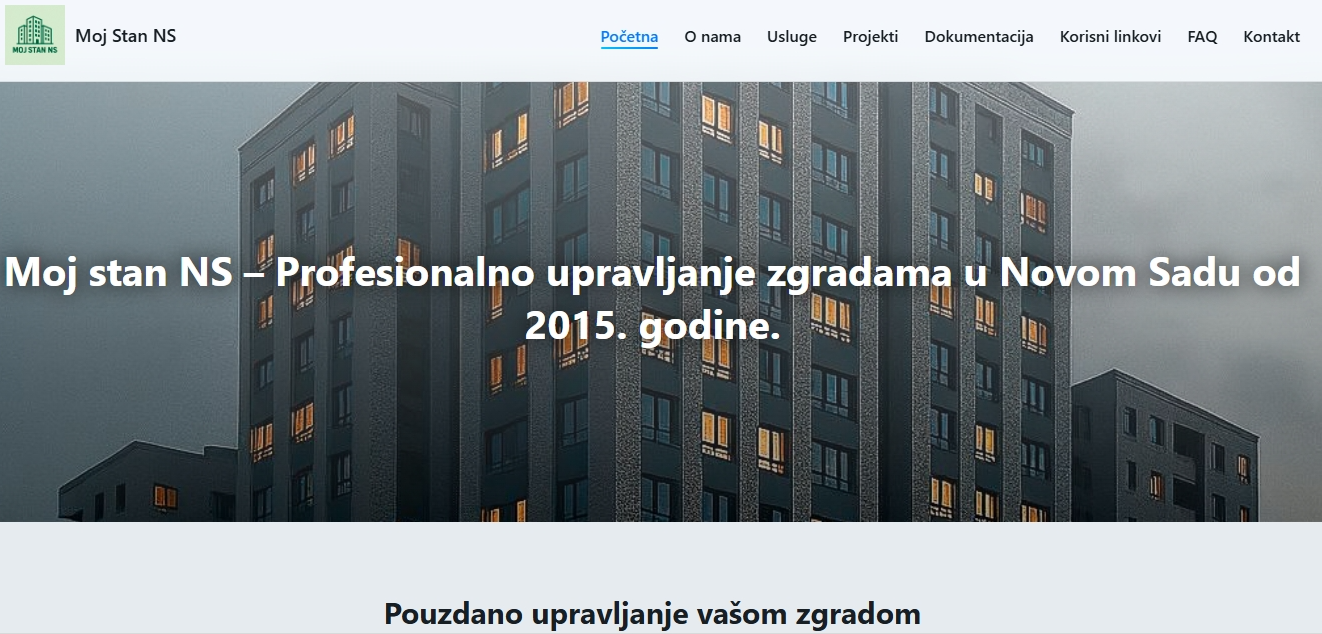
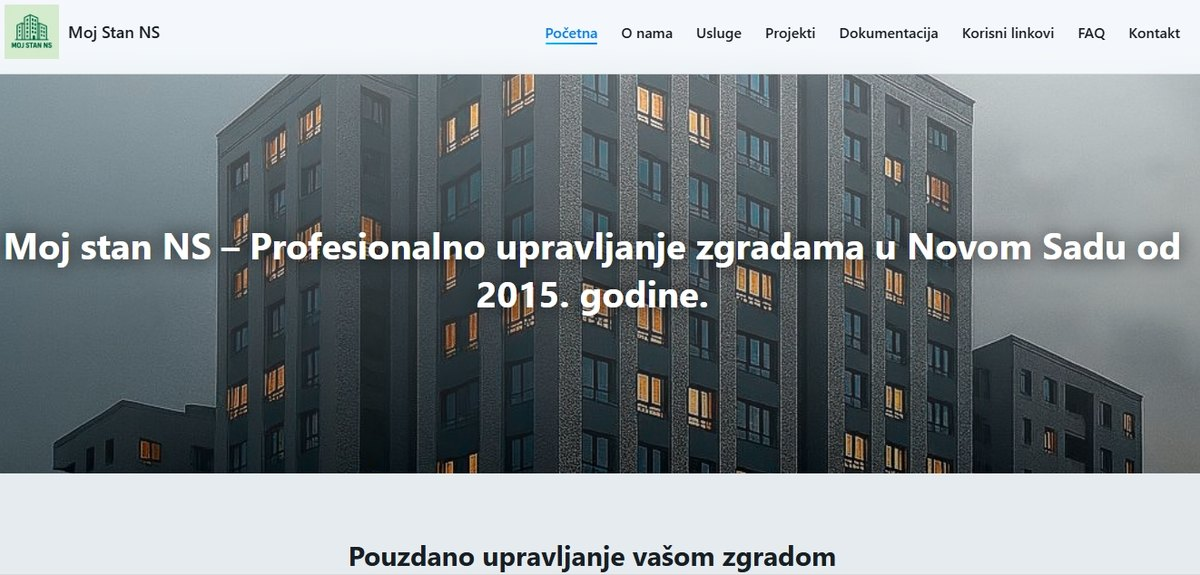
Add files via upload

diff --git a/o-nama.html b/o-nama.html
@@ -15,14 +15,14 @@
 <meta content="width=device-width, initial-scale=1.0" name="viewport"/>
 <title>O nama – MP Web Studio | Izrada Web Sajtova Novi Sad</title>
 <meta content="MP Web Studio – studio specijalizovan za izradu modernih, brzih i profesionalnih web sajtova. Fokus na lokalne biznise u Novom Sadu. SEO, dizajn, razvoj." name="description"/><link href="https://mpwebstudio.rs/o-nama.html" rel="canonical"/>
-<meta content="https://mpwebstudio.rs/img/og-image.png" property="og:image"/>
+<meta content="https://mpwebstudio.rs/img/og-image.jpg" property="og:image"/>
 <link href="https://fonts.googleapis.com" rel="preconnect"/><link crossorigin="" href="https://fonts.gstatic.com" rel="preconnect"/><link href="img/favicon.ico" rel="icon" sizes="any"/><link href="img/favicon-32.png" rel="icon" sizes="32x32" type="image/png"/><link href="img/favicon-180.png" rel="apple-touch-icon" sizes="180x180"/><link href="https://fonts.googleapis.com/css2?family=Inter:wght@300;400;500;600;700;800&amp;display=swap" rel="stylesheet"/><link href="style.css" rel="stylesheet"/>
 <script type="application/ld+json">
 {
   "@context": "https://schema.org",
   "@type": "LocalBusiness",
   "name": "MP Web Studio",
-  "image": "https://mpwebstudio.rs/img/og-image.png",
+  "image": "https://mpwebstudio.rs/img/og-image.jpg",
   "url": "https://mpwebstudio.rs/",
   "telephone": "+38163582132",
   "email": "info.mpwebstudio@gmail.com",
@@ -36,7 +36,7 @@
   "description": "MP Web Studio – izrada profesionalnih web sajtova za lokalne biznise u Novom Sadu. Moderan dizajn, SEO optimizacija i brza isporuka uz fokus na rezultate."
 }
 </script>
-<meta content="O nama – MP Web Studio | Izrada Web Sajtova Novi Sad" property="og:title"/><meta content="MP Web Studio – studio specijalizovan za izradu modernih, brzih i profesionalnih web sajtova. Fokus na lokalne biznise u Novom Sadu. SEO, dizajn, razvoj." property="og:description"/><meta content="website" property="og:type"/><meta content="https://mpwebstudio.rs/o-nama.html" property="og:url"/><meta content="summary_large_image" name="twitter:card"/><meta content="O nama – MP Web Studio | Izrada Web Sajtova Novi Sad" name="twitter:title"/><meta content="MP Web Studio – studio specijalizovan za izradu modernih, brzih i profesionalnih web sajtova. Fokus na lokalne biznise u Novom Sadu. SEO, dizajn, razvoj." name="twitter:description"/><meta content="https://mpwebstudio.rs/img/og-image.png" name="twitter:image"/></head>
+<meta content="O nama – MP Web Studio | Izrada Web Sajtova Novi Sad" property="og:title"/><meta content="MP Web Studio – studio specijalizovan za izradu modernih, brzih i profesionalnih web sajtova. Fokus na lokalne biznise u Novom Sadu. SEO, dizajn, razvoj." property="og:description"/><meta content="website" property="og:type"/><meta content="https://mpwebstudio.rs/o-nama.html" property="og:url"/><meta content="summary_large_image" name="twitter:card"/><meta content="O nama – MP Web Studio | Izrada Web Sajtova Novi Sad" name="twitter:title"/><meta content="MP Web Studio – studio specijalizovan za izradu modernih, brzih i profesionalnih web sajtova. Fokus na lokalne biznise u Novom Sadu. SEO, dizajn, razvoj." name="twitter:description"/><meta content="https://mpwebstudio.rs/img/og-image.jpg" name="twitter:image"/></head>
 <body>
 <!-- ===================== -->
 <!-- HEADER -->
@@ -117,11 +117,11 @@
 <p><span class="footer-icon-link"><span aria-hidden="true" class="footer-icon">◎</span><span>Instagram:</span> <a href="https://www.instagram.com/mpwebstudio.rs/" rel="noopener noreferrer" target="_blank">@mpwebstudio.rs</a></span></p>
 </div>
 <div class="footer-col">
-<a class="footer-cta" href="kontakt.html">Pošaljite poruku</a>
+<a class="footer-cta" href="kontakt.html">Zakažite konsultaciju</a>
 </div>
 </div>
 <div class="footer-bottom">
-    © 2026 MP Web Studio — Sva prava zadržana
+    © 2026 MP Web Studio – Sva prava zadržana
   </div>
 </footer>
 <!-- ===================== -->

diff --git a/portfolio.html b/portfolio.html
@@ -15,14 +15,14 @@
 <meta content="width=device-width, initial-scale=1.0" name="viewport"/>
 <title>Portfolio – Izrada Web Sajtova Novi Sad | MP Web Studio</title>
 <meta content="Portfolio MP Web Studio – pogledajte neke od naših radova. Izrada modernih i profesionalnih web sajtova za lokalne biznise u Novom Sadu. Brzo, kvalitetno i SEO optimizovano." name="description"/><link href="https://mpwebstudio.rs/portfolio.html" rel="canonical"/>
-<meta content="https://mpwebstudio.rs/img/og-image.png" property="og:image"/>
+<meta content="https://mpwebstudio.rs/img/og-image.jpg" property="og:image"/>
 <link href="https://fonts.googleapis.com" rel="preconnect"/><link crossorigin="" href="https://fonts.gstatic.com" rel="preconnect"/><link href="img/favicon.ico" rel="icon" sizes="any"/><link href="img/favicon-32.png" rel="icon" sizes="32x32" type="image/png"/><link href="img/favicon-180.png" rel="apple-touch-icon" sizes="180x180"/><link href="https://fonts.googleapis.com/css2?family=Inter:wght@300;400;500;600;700;800&amp;display=swap" rel="stylesheet"/><link href="style.css" rel="stylesheet"/>
 <script type="application/ld+json">
 {
   "@context": "https://schema.org",
   "@type": "LocalBusiness",
   "name": "MP Web Studio",
-  "image": "https://mpwebstudio.rs/img/og-image.png",
+  "image": "https://mpwebstudio.rs/img/og-image.jpg",
   "url": "https://mpwebstudio.rs/",
   "telephone": "+38163582132",
   "email": "info.mpwebstudio@gmail.com",
@@ -36,7 +36,7 @@
   "description": "MP Web Studio – izrada profesionalnih web sajtova za lokalne biznise u Novom Sadu. Moderan dizajn, SEO optimizacija i brza isporuka uz fokus na rezultate."
 }
 </script>
-<meta content="Portfolio – Izrada Web Sajtova Novi Sad | MP Web Studio" property="og:title"/><meta content="Portfolio MP Web Studio – pogledajte neke od naših radova. Izrada modernih i profesionalnih web sajtova za lokalne biznise u Novom Sadu. Brzo, kvalitetno i SEO optimizovano." property="og:description"/><meta content="website" property="og:type"/><meta content="https://mpwebstudio.rs/portfolio.html" property="og:url"/><meta content="summary_large_image" name="twitter:card"/><meta content="Portfolio – Izrada Web Sajtova Novi Sad | MP Web Studio" name="twitter:title"/><meta content="Portfolio MP Web Studio – pogledajte neke od naših radova. Izrada modernih i profesionalnih web sajtova za lokalne biznise u Novom Sadu. Brzo, kvalitetno i SEO optimizovano." name="twitter:description"/><meta content="https://mpwebstudio.rs/img/og-image.png" name="twitter:image"/></head>
+<meta content="Portfolio – Izrada Web Sajtova Novi Sad | MP Web Studio" property="og:title"/><meta content="Portfolio MP Web Studio – pogledajte neke od naših radova. Izrada modernih i profesionalnih web sajtova za lokalne biznise u Novom Sadu. Brzo, kvalitetno i SEO optimizovano." property="og:description"/><meta content="website" property="og:type"/><meta content="https://mpwebstudio.rs/portfolio.html" property="og:url"/><meta content="summary_large_image" name="twitter:card"/><meta content="Portfolio – Izrada Web Sajtova Novi Sad | MP Web Studio" name="twitter:title"/><meta content="Portfolio MP Web Studio – pogledajte neke od naših radova. Izrada modernih i profesionalnih web sajtova za lokalne biznise u Novom Sadu. Brzo, kvalitetno i SEO optimizovano." name="twitter:description"/><meta content="https://mpwebstudio.rs/img/og-image.jpg" name="twitter:image"/></head>
 <body>
 <!-- HEADER -->
 <header class="header">
@@ -183,7 +183,7 @@
 <p><span class="footer-icon-link"><span aria-hidden="true" class="footer-icon">◎</span><span>Instagram:</span> <a href="https://www.instagram.com/mpwebstudio.rs/" rel="noopener noreferrer" target="_blank">@mpwebstudio.rs</a></span></p>
 </div>
 <div class="footer-col">
-<a class="footer-cta" href="kontakt.html">Pošaljite poruku</a>
+<a class="footer-cta" href="kontakt.html">Zakažite konsultaciju</a>
 </div>
 </div>
 <div class="footer-bottom">

diff --git a/kontakt.html b/kontakt.html
@@ -15,14 +15,14 @@
 <meta content="width=device-width, initial-scale=1.0" name="viewport"/>
 <title>Kontakt – MP Web Studio | Izrada Web Sajtova Novi Sad</title>
 <meta content="Kontaktirajte MP Web Studio iz Novog Sada. Izrada profesionalnih i modernih web sajtova za lokalne biznise. Odgovaramo u roku od 15 minuta." name="description"/><link href="https://mpwebstudio.rs/kontakt.html" rel="canonical"/>
-<meta content="https://mpwebstudio.rs/img/og-image.png" property="og:image"/>
+<meta content="https://mpwebstudio.rs/img/og-image.jpg" property="og:image"/>
 <link href="https://fonts.googleapis.com" rel="preconnect"/><link crossorigin="" href="https://fonts.gstatic.com" rel="preconnect"/><link href="img/favicon.ico" rel="icon" sizes="any"/><link href="img/favicon-32.png" rel="icon" sizes="32x32" type="image/png"/><link href="img/favicon-180.png" rel="apple-touch-icon" sizes="180x180"/><link href="https://fonts.googleapis.com/css2?family=Inter:wght@300;400;500;600;700;800&amp;display=swap" rel="stylesheet"/><link href="style.css" rel="stylesheet"/>
 <script type="application/ld+json">
 {
   "@context": "https://schema.org",
   "@type": "LocalBusiness",
   "name": "MP Web Studio",
-  "image": "https://mpwebstudio.rs/img/og-image.png",
+  "image": "https://mpwebstudio.rs/img/og-image.jpg",
   "url": "https://mpwebstudio.rs/",
   "telephone": "+38163582132",
   "email": "info.mpwebstudio@gmail.com",
@@ -36,7 +36,7 @@
   "description": "MP Web Studio – izrada profesionalnih web sajtova za lokalne biznise u Novom Sadu. Moderan dizajn, SEO optimizacija i brza isporuka uz fokus na rezultate."
 }
 </script>
-<meta content="Kontakt – MP Web Studio | Izrada Web Sajtova Novi Sad" property="og:title"/><meta content="Kontaktirajte MP Web Studio iz Novog Sada. Izrada profesionalnih i modernih web sajtova za lokalne biznise. Odgovaramo u roku od 15 minuta." property="og:description"/><meta content="website" property="og:type"/><meta content="https://mpwebstudio.rs/kontakt.html" property="og:url"/><meta content="summary_large_image" name="twitter:card"/><meta content="Kontakt – MP Web Studio | Izrada Web Sajtova Novi Sad" name="twitter:title"/><meta content="Kontaktirajte MP Web Studio iz Novog Sada. Izrada profesionalnih i modernih web sajtova za lokalne biznise. Odgovaramo u roku od 15 minuta." name="twitter:description"/><meta content="https://mpwebstudio.rs/img/og-image.png" name="twitter:image"/></head>
+<meta content="Kontakt – MP Web Studio | Izrada Web Sajtova Novi Sad" property="og:title"/><meta content="Kontaktirajte MP Web Studio iz Novog Sada. Izrada profesionalnih i modernih web sajtova za lokalne biznise. Odgovaramo u roku od 15 minuta." property="og:description"/><meta content="website" property="og:type"/><meta content="https://mpwebstudio.rs/kontakt.html" property="og:url"/><meta content="summary_large_image" name="twitter:card"/><meta content="Kontakt – MP Web Studio | Izrada Web Sajtova Novi Sad" name="twitter:title"/><meta content="Kontaktirajte MP Web Studio iz Novog Sada. Izrada profesionalnih i modernih web sajtova za lokalne biznise. Odgovaramo u roku od 15 minuta." name="twitter:description"/><meta content="https://mpwebstudio.rs/img/og-image.jpg" name="twitter:image"/></head>
 <body>
 <!-- HEADER -->
 <header class="header">
@@ -125,7 +125,7 @@
 <p><span class="footer-icon-link"><span aria-hidden="true" class="footer-icon">◎</span><span>Instagram:</span> <a href="https://www.instagram.com/mpwebstudio.rs/" rel="noopener noreferrer" target="_blank">@mpwebstudio.rs</a></span></p>
 </div>
 <div class="footer-col">
-<a class="footer-cta" href="kontakt.html">Pošaljite poruku</a>
+<a class="footer-cta" href="kontakt.html">Zakažite konsultaciju</a>
 </div>
 </div>
 <div class="footer-bottom">

diff --git a/index.html b/index.html
@@ -23,7 +23,7 @@
 <meta content="website" property="og:type"/>
 <meta content="Izrada Web Sajtova Novi Sad | MP Web Studio" property="og:title"/>
 <meta content="Profesionalna izrada web sajtova Novi Sad. Brzi, moderni i SEO optimizovani sajtovi za lokalne biznise. Premium dizajn, jasna ponuda i rezultat na prvom mestu. MP Web Studio." property="og:description"/>
-<meta content="https://mpwebstudio.rs/img/og-image.png" property="og:image"/>
+<meta content="https://mpwebstudio.rs/img/og-image.jpg" property="og:image"/>
 <meta content="https://mpwebstudio.rs/" property="og:url"/>
 <!-- Favicon -->
 <!-- Styles -->
@@ -44,7 +44,7 @@
   "@context": "https://schema.org",
   "@type": "LocalBusiness",
   "name": "MP Web Studio",
-  "image": "https://mpwebstudio.rs/img/og-image.png",
+  "image": "https://mpwebstudio.rs/img/og-image.jpg",
   "url": "https://mpwebstudio.rs/",
   "telephone": "+38163582132",
   "email": "info.mpwebstudio@gmail.com",
@@ -58,7 +58,7 @@
   "description": "MP Web Studio – izrada profesionalnih web sajtova za lokalne biznise u Novom Sadu. Moderan dizajn, SEO optimizacija i brza isporuka uz fokus na rezultate."
 }
 </script>
-<meta content="summary_large_image" name="twitter:card"/><meta content="Izrada Web Sajtova Novi Sad | MP Web Studio" name="twitter:title"/><meta content="Profesionalna izrada web sajtova Novi Sad. Brzi, moderni i SEO optimizovani sajtovi za lokalne biznise. Premium dizajn, jasna ponuda i rezultat na prvom mestu. MP Web Studio." name="twitter:description"/><meta content="https://mpwebstudio.rs/img/og-image.png" name="twitter:image"/></head>
+<meta content="summary_large_image" name="twitter:card"/><meta content="Izrada Web Sajtova Novi Sad | MP Web Studio" name="twitter:title"/><meta content="Profesionalna izrada web sajtova Novi Sad. Brzi, moderni i SEO optimizovani sajtovi za lokalne biznise. Premium dizajn, jasna ponuda i rezultat na prvom mestu. MP Web Studio." name="twitter:description"/><meta content="https://mpwebstudio.rs/img/og-image.jpg" name="twitter:image"/></head>
 <body>
 <!-- ===================== -->
 <!-- ⭐ HEADER ⭐ -->
@@ -98,8 +98,8 @@
 <div class="hero-wrapper glow-frame">
 <!-- ⭐ NASLOV IZNAD VIDEA -->
 <h1 class="hero-title">
-<strong>Izrada Web Sajtova Novi Sad – Profesionalno &amp; Brzo</strong>
-      Premium web sajtovi za biznise koji žele više<br/>
+<strong>Izrada web sajtova Novi Sad</strong>
+      Premium sajtovi za biznise koji žele više<br/>
 </h1>
 <!-- ⭐ HERO VIDEO – FULL WIDTH -->
 <div class="hero-video-box">
@@ -160,7 +160,7 @@
 <div class="container footer-wrapper">
 <div class="footer-col">
 <h3>MP Web Studio</h3>
-<p>Izrada web sajtova • SEO • Branding</p>
+<p>Izrada profesionalnih web sajtova • Novi Sad</p>
 </div>
 <div class="footer-col">
 <h4>Kontakt</h4>
@@ -174,8 +174,8 @@
 </div>
 </div>
 <div class="footer-bottom">
-      © 2026 MP Web Studio – Sva prava zadržana.
-    </div>
+    © 2026 MP Web Studio – Sva prava zadržana
+  </div>
 </footer>
 <!-- JS -->
 <script>

diff --git a/izrada-web-sajtova-novi-sad.html b/izrada-web-sajtova-novi-sad.html
@@ -300,7 +300,7 @@
       .back-home-top { justify-content: center; }
     }
   </style>
-<meta content="Izrada web sajtova Novi Sad | MP Web Studio – Profesionalni web dizajn" property="og:title"/><meta content="MP Web Studio – izrada web sajtova Novi Sad. Moderni, brzi i profesionalni sajtovi za lokalne biznise, preduzetnike i ugostitelje. Jasne cene, SEO optimizacija i realni rokovi." property="og:description"/><meta content="website" property="og:type"/><meta content="https://mpwebstudio.rs/izrada-web-sajtova-novi-sad.html" property="og:url"/><meta content="https://mpwebstudio.rs/img/og-image.png" property="og:image"/><meta content="summary_large_image" name="twitter:card"/><meta content="Izrada web sajtova Novi Sad | MP Web Studio – Profesionalni web dizajn" name="twitter:title"/><meta content="MP Web Studio – izrada web sajtova Novi Sad. Moderni, brzi i profesionalni sajtovi za lokalne biznise, preduzetnike i ugostitelje. Jasne cene, SEO optimizacija i realni rokovi." name="twitter:description"/><meta content="https://mpwebstudio.rs/img/og-image.png" name="twitter:image"/></head>
+<meta content="Izrada web sajtova Novi Sad | MP Web Studio – Profesionalni web dizajn" property="og:title"/><meta content="MP Web Studio – izrada web sajtova Novi Sad. Moderni, brzi i profesionalni sajtovi za lokalne biznise, preduzetnike i ugostitelje. Jasne cene, SEO optimizacija i realni rokovi." property="og:description"/><meta content="website" property="og:type"/><meta content="https://mpwebstudio.rs/izrada-web-sajtova-novi-sad.html" property="og:url"/><meta content="https://mpwebstudio.rs/img/og-image.jpg" property="og:image"/><meta content="summary_large_image" name="twitter:card"/><meta content="Izrada web sajtova Novi Sad | MP Web Studio – Profesionalni web dizajn" name="twitter:title"/><meta content="MP Web Studio – izrada web sajtova Novi Sad. Moderni, brzi i profesionalni sajtovi za lokalne biznise, preduzetnike i ugostitelje. Jasne cene, SEO optimizacija i realni rokovi." name="twitter:description"/><meta content="https://mpwebstudio.rs/img/og-image.jpg" name="twitter:image"/></head>
 <body>
 <div class="bg-glow"></div>
 <div class="page">
@@ -337,7 +337,7 @@
 <section>
 <div class="section-card two-cols">
 <div>
-<h2>Za koga je izrada sajta u Novom Sadu koje radi MP Web Studio?</h2>
+<h2>Za koga je izrada sajta u Novom Sadu pravi izbor?</h2>
 <p>
             Najčešće radimo sa vlasnicima malih i srednjih biznisa koji žele normalnu, ljudsku saradnju –
             bez komplikacija, agencijskih termina i nepotrebnih troškova.
@@ -533,7 +533,7 @@
 <!-- LOKALNI FOKUS -->
 <section>
 <div class="section-card">
-<h2>Lokalni fokus – izrada sajtova za Novi Sad i okolina</h2>
+<h2>Lokalni fokus – izrada sajtova za Novi Sad i okolinu</h2>
 <p>
           Iako možemo da radimo sa klijentima iz cele Srbije, <strong>posebno volimo da radimo sa
           novosadskim biznisima</strong>. Lakše je razumeti lokalne prilike, navike ljudi i način

diff --git a/usluge.html b/usluge.html
@@ -21,7 +21,7 @@
   "@context": "https://schema.org",
   "@type": "LocalBusiness",
   "name": "MP Web Studio",
-  "image": "https://mpwebstudio.rs/img/og-image.png",
+  "image": "https://mpwebstudio.rs/img/og-image.jpg",
   "url": "https://mpwebstudio.rs/",
   "telephone": "+38163582132",
   "email": "info.mpwebstudio@gmail.com",
@@ -35,7 +35,7 @@
   "description": "MP Web Studio – izrada profesionalnih web sajtova za lokalne biznise u Novom Sadu. Moderan dizajn, SEO optimizacija i brza isporuka uz fokus na rezultate."
 }
 </script>
-<meta content="Usluge – Izrada Web Sajtova Novi Sad | MP Web Studio" property="og:title"/><meta content="Profesionalna izrada web sajtova Novi Sad. Premium web dizajn, SEO optimizacija, redizajn i razvoj sajtova za lokalne biznise. MP Web Studio – brz, moderan i pouzdan." property="og:description"/><meta content="website" property="og:type"/><meta content="https://mpwebstudio.rs/usluge.html" property="og:url"/><meta content="https://mpwebstudio.rs/img/og-image.png" property="og:image"/><meta content="summary_large_image" name="twitter:card"/><meta content="Usluge – Izrada Web Sajtova Novi Sad | MP Web Studio" name="twitter:title"/><meta content="Profesionalna izrada web sajtova Novi Sad. Premium web dizajn, SEO optimizacija, redizajn i razvoj sajtova za lokalne biznise. MP Web Studio – brz, moderan i pouzdan." name="twitter:description"/><meta content="https://mpwebstudio.rs/img/og-image.png" name="twitter:image"/></head>
+<meta content="Usluge – Izrada Web Sajtova Novi Sad | MP Web Studio" property="og:title"/><meta content="Profesionalna izrada web sajtova Novi Sad. Premium web dizajn, SEO optimizacija, redizajn i razvoj sajtova za lokalne biznise. MP Web Studio – brz, moderan i pouzdan." property="og:description"/><meta content="website" property="og:type"/><meta content="https://mpwebstudio.rs/usluge.html" property="og:url"/><meta content="https://mpwebstudio.rs/img/og-image.jpg" property="og:image"/><meta content="summary_large_image" name="twitter:card"/><meta content="Usluge – Izrada Web Sajtova Novi Sad | MP Web Studio" name="twitter:title"/><meta content="Profesionalna izrada web sajtova Novi Sad. Premium web dizajn, SEO optimizacija, redizajn i razvoj sajtova za lokalne biznise. MP Web Studio – brz, moderan i pouzdan." name="twitter:description"/><meta content="https://mpwebstudio.rs/img/og-image.jpg" name="twitter:image"/></head>
 <body>
 <!-- HEADER -->
 <header class="header">
@@ -192,7 +192,7 @@
 <p><span class="footer-icon-link"><span aria-hidden="true" class="footer-icon">◎</span><span>Instagram:</span> <a href="https://www.instagram.com/mpwebstudio.rs/" rel="noopener noreferrer" target="_blank">@mpwebstudio.rs</a></span></p>
 </div>
 <div class="footer-col">
-<a class="footer-cta" href="kontakt.html">Pošaljite poruku</a>
+<a class="footer-cta" href="kontakt.html">Zakažite konsultaciju</a>
 </div>
 </div>
 <div class="footer-bottom">

diff --git a/faq.html b/faq.html
@@ -74,7 +74,7 @@
   "@context": "https://schema.org",
   "@type": "LocalBusiness",
   "name": "MP Web Studio",
-  "image": "https://mpwebstudio.rs/img/og-image.png",
+  "image": "https://mpwebstudio.rs/img/og-image.jpg",
   "url": "https://mpwebstudio.rs/",
   "telephone": "+38163582132",
   "email": "info.mpwebstudio@gmail.com",
@@ -88,7 +88,7 @@
   "description": "MP Web Studio – izrada profesionalnih web sajtova za lokalne biznise u Novom Sadu. Moderan dizajn, SEO optimizacija i brza isporuka uz fokus na rezultate."
 }
 </script>
-<meta content="FAQ | Česta pitanja | MP Web Studio – Izrada Web Sajtova Novi Sad" property="og:title"/><meta content="Česta pitanja o izradi web sajtova, rokovima, SEO optimizaciji, održavanju i saradnji sa MP Web Studio iz Novog Sada." property="og:description"/><meta content="website" property="og:type"/><meta content="https://mpwebstudio.rs/faq.html" property="og:url"/><meta content="https://mpwebstudio.rs/img/og-image.png" property="og:image"/><meta content="summary_large_image" name="twitter:card"/><meta content="FAQ | Česta pitanja | MP Web Studio – Izrada Web Sajtova Novi Sad" name="twitter:title"/><meta content="Česta pitanja o izradi web sajtova, rokovima, SEO optimizaciji, održavanju i saradnji sa MP Web Studio iz Novog Sada." name="twitter:description"/><meta content="https://mpwebstudio.rs/img/og-image.png" name="twitter:image"/></head>
+<meta content="FAQ | Česta pitanja | MP Web Studio – Izrada Web Sajtova Novi Sad" property="og:title"/><meta content="Česta pitanja o izradi web sajtova, rokovima, SEO optimizaciji, održavanju i saradnji sa MP Web Studio iz Novog Sada." property="og:description"/><meta content="website" property="og:type"/><meta content="https://mpwebstudio.rs/faq.html" property="og:url"/><meta content="https://mpwebstudio.rs/img/og-image.jpg" property="og:image"/><meta content="summary_large_image" name="twitter:card"/><meta content="FAQ | Česta pitanja | MP Web Studio – Izrada Web Sajtova Novi Sad" name="twitter:title"/><meta content="Česta pitanja o izradi web sajtova, rokovima, SEO optimizaciji, održavanju i saradnji sa MP Web Studio iz Novog Sada." name="twitter:description"/><meta content="https://mpwebstudio.rs/img/og-image.jpg" name="twitter:image"/></head>
 <body>
 <!-- HEADER -->
 <header class="header">
@@ -253,7 +253,7 @@
 <div class="container footer-wrapper">
 <div class="footer-col">
 <h3>MP Web Studio</h3>
-<p>Izrada web sajtova • SEO • Branding</p>
+<p>Izrada profesionalnih web sajtova • Novi Sad</p>
 </div>
 <div class="footer-col">
 <h4>Kontakt</h4>
@@ -267,8 +267,8 @@
 </div>
 </div>
 <div class="footer-bottom">
-      © 2026 MP Web Studio – Sva prava zadržana.
-    </div>
+    © 2026 MP Web Studio – Sva prava zadržana
+  </div>
 </footer>
 <!-- JS: hamburger + FAQ accordion -->
 <script>
